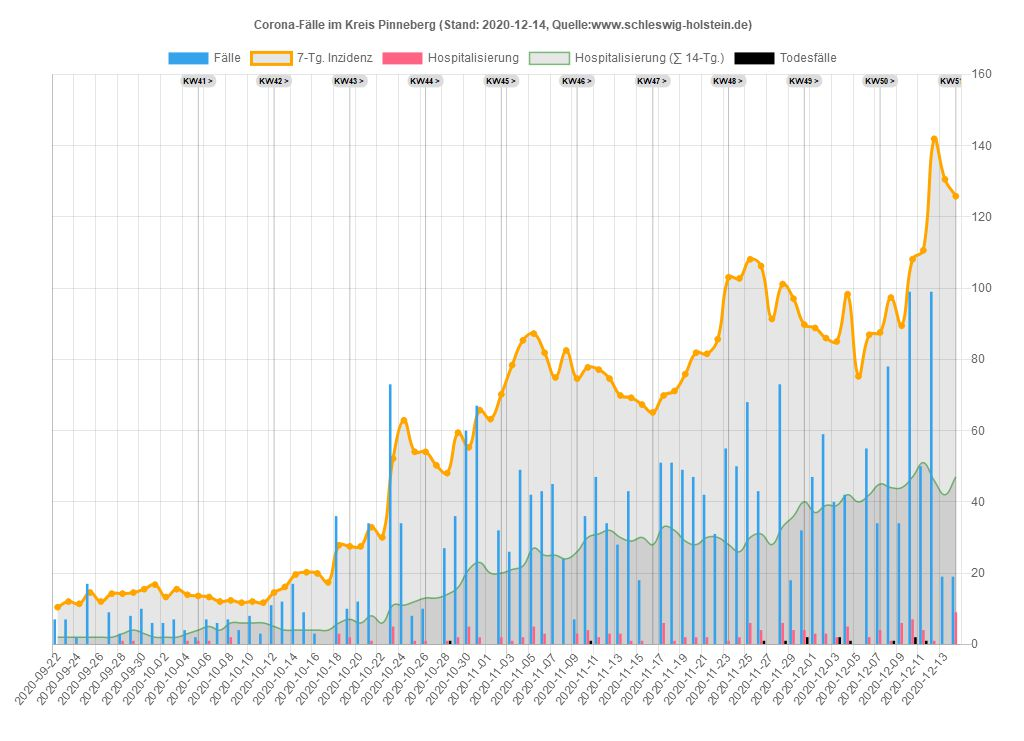
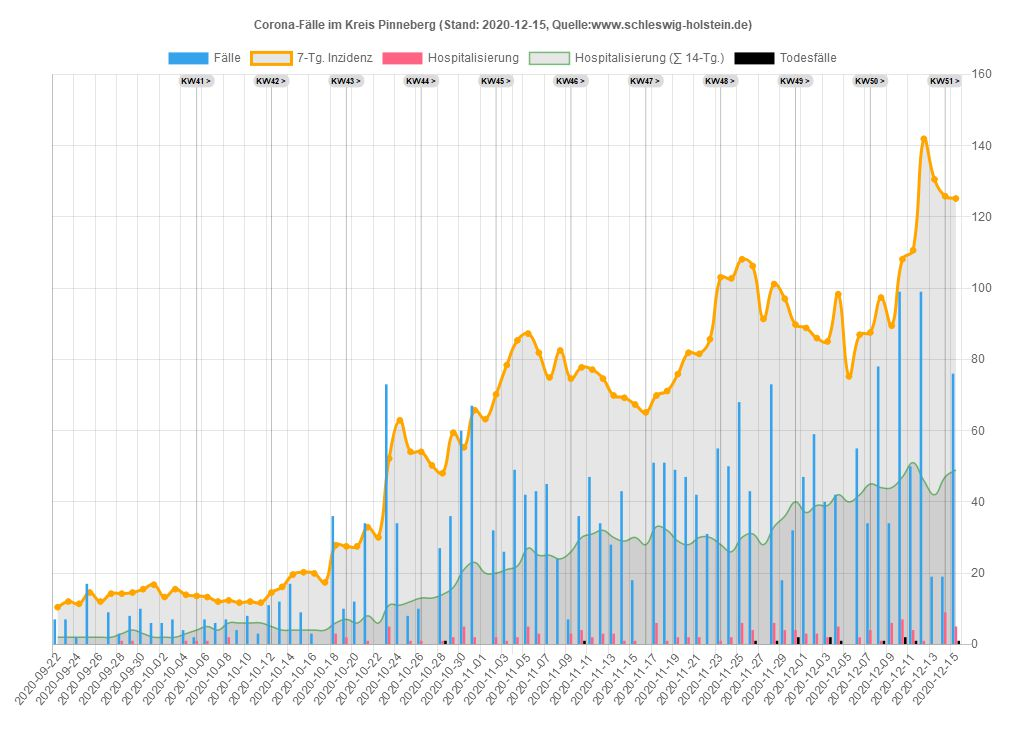
15.12.2020 21:47:12,88

diff --git a/sh/Data_SH.js b/sh/Data_SH.js
@@ -1,33 +1,33 @@
 var chdata={
-labels: ["2020-09-22","2020-09-23","2020-09-24","2020-09-25","2020-09-26","2020-09-27","2020-09-28","2020-09-29","2020-09-30","2020-10-01","2020-10-02","2020-10-03","2020-10-04","2020-10-05","2020-10-06","2020-10-07","2020-10-08","2020-10-09","2020-10-10","2020-10-11","2020-10-12","2020-10-13","2020-10-14","2020-10-15","2020-10-16","2020-10-17","2020-10-18","2020-10-19","2020-10-20","2020-10-21","2020-10-22","2020-10-23","2020-10-24","2020-10-25","2020-10-26","2020-10-27","2020-10-28","2020-10-29","2020-10-30","2020-10-31","2020-11-01","2020-11-02","2020-11-03","2020-11-04","2020-11-05","2020-11-06","2020-11-07","2020-11-08","2020-11-09","2020-11-10","2020-11-11","2020-11-12","2020-11-13","2020-11-14","2020-11-15","2020-11-16","2020-11-17","2020-11-18","2020-11-19","2020-11-20","2020-11-21","2020-11-22","2020-11-23","2020-11-24","2020-11-25","2020-11-26","2020-11-27","2020-11-28","2020-11-29","2020-11-30","2020-12-01","2020-12-02","2020-12-03","2020-12-04","2020-12-05","2020-12-06","2020-12-07","2020-12-08","2020-12-09","2020-12-10","2020-12-11","2020-12-12","2020-12-13","2020-12-14"],
+labels: ["2020-09-22","2020-09-23","2020-09-24","2020-09-25","2020-09-26","2020-09-27","2020-09-28","2020-09-29","2020-09-30","2020-10-01","2020-10-02","2020-10-03","2020-10-04","2020-10-05","2020-10-06","2020-10-07","2020-10-08","2020-10-09","2020-10-10","2020-10-11","2020-10-12","2020-10-13","2020-10-14","2020-10-15","2020-10-16","2020-10-17","2020-10-18","2020-10-19","2020-10-20","2020-10-21","2020-10-22","2020-10-23","2020-10-24","2020-10-25","2020-10-26","2020-10-27","2020-10-28","2020-10-29","2020-10-30","2020-10-31","2020-11-01","2020-11-02","2020-11-03","2020-11-04","2020-11-05","2020-11-06","2020-11-07","2020-11-08","2020-11-09","2020-11-10","2020-11-11","2020-11-12","2020-11-13","2020-11-14","2020-11-15","2020-11-16","2020-11-17","2020-11-18","2020-11-19","2020-11-20","2020-11-21","2020-11-22","2020-11-23","2020-11-24","2020-11-25","2020-11-26","2020-11-27","2020-11-28","2020-11-29","2020-11-30","2020-12-01","2020-12-02","2020-12-03","2020-12-04","2020-12-05","2020-12-06","2020-12-07","2020-12-08","2020-12-09","2020-12-10","2020-12-11","2020-12-12","2020-12-13","2020-12-14","2020-12-15"],
 datasets: [
 {label: 'Fälle',
 type: 'bar',
 backgroundColor: window.chartColors.blue,
-data: [38,42,63,53,15,15,38,48,49,27,50,16,24,39,54,45,79,54,26,25,65,65,65,55,90,26,88,163,111,160,136,236,142,115,164,164,280,215,313,265,161,142,236,262,220,274,233,177,215,252,247,192,296,158,161,100,294,208,264,250,153,121,145,251,256,225,180,219,71,81,244,240,245,318,234,154,183,314,297,529,384,472,140,241]},
+data: [38,42,63,53,15,15,38,48,49,27,50,16,24,39,54,45,79,54,26,25,65,65,65,55,90,26,88,163,111,160,136,236,142,115,164,164,280,215,313,265,161,142,236,262,220,274,233,177,215,252,247,192,296,158,161,100,294,208,264,250,153,121,145,251,256,225,180,219,71,81,244,240,245,318,234,154,183,314,297,529,384,472,140,241,486]},
 {label: '7-Tg. Inzidenz',
 type: 'line',
 pointBackgroundColor: 'orange',
 borderColor: 'orange',
-data: [7.23197027,7.88629139,8.74724023,9.40156135,9.33268544,9.16049567,9.09161977,9.4359993,9.67706498,8.43729865,8.33398478,8.36842274,8.67836432,8.71280227,8.91943,8.78167818,10.5724518,10.7102036,11.0545831,11.0890211,11.9844079,12.3632254,13.0519844,12.2254735,13.4652399,13.4652399,15.634831,19.0097504,20.5938963,23.8655019,26.6549761,31.6829174,35.67772,36.6075447,36.6419827,38.4671942,42.5997487,45.320347,47.9720694,52.2079377,53.7920836,53.0344486,55.5139813,54.8940981,55.0662879,53.7232077,52.6211932,53.1722004,55.6861711,56.2371783,55.720609,54.7563463,55.5139813,52.9311348,52.3801275,48.4197628,49.8661569,48.5230767,51.0026094,49.4184635,49.2462737,47.8687556,49.4184635,47.9376315,49.5906533,48.2475731,45.8369163,48.1098213,46.3879236,44.1838945,43.9428289,43.3918216,44.0805807,48.8330183,49.3495876,52.2079377,55.720609,58.1312658,60.0942291,69.874608,72.1475129,80.3437459,79.8616145,81.8590158]},
+data: [7.23197027,7.88629139,8.74724023,9.40156135,9.33268544,9.16049567,9.09161977,9.4359993,9.67706498,8.43729865,8.33398478,8.36842274,8.67836432,8.71280227,8.91943,8.78167818,10.5724518,10.7102036,11.0545831,11.0890211,11.9844079,12.3632254,13.0519844,12.2254735,13.4652399,13.4652399,15.634831,19.0097504,20.5938963,23.8655019,26.6549761,31.6829174,35.67772,36.6075447,36.6419827,38.4671942,42.5997487,45.320347,47.9720694,52.2079377,53.7920836,53.0344486,55.5139813,54.8940981,55.0662879,53.7232077,52.6211932,53.1722004,55.6861711,56.2371783,55.720609,54.7563463,55.5139813,52.9311348,52.3801275,48.4197628,49.8661569,48.5230767,51.0026094,49.4184635,49.2462737,47.8687556,49.4184635,47.9376315,49.5906533,48.2475731,45.8369163,48.1098213,46.3879236,44.1838945,43.9428289,43.3918216,44.0805807,48.8330183,49.3495876,52.2079377,55.720609,58.1312658,60.0942291,69.874608,72.1475129,80.3437459,79.8616145,81.8590158,87.7823439]},
 {label: 'Hospitalisierung',
 type: 'bar',
 backgroundColor: window.chartColors.red,
-data: [1,2,7,1,0,0,2,1,3,1,1,0,4,3,1,1,4,2,0,3,5,1,1,2,4,0,9,10,8,9,12,7,5,6,7,7,11,10,11,6,3,9,19,20,15,15,5,7,13,15,21,13,17,8,17,13,23,10,15,9,7,7,13,16,26,19,12,14,15,10,12,8,10,14,3,5,24,13,26,20,14,12,6,26]},
+data: [1,2,7,1,0,0,2,1,3,1,1,0,4,3,1,1,4,2,0,3,5,1,1,2,4,0,9,10,8,9,12,7,5,6,7,7,11,10,11,6,3,9,19,20,15,15,5,7,13,15,21,13,17,8,17,13,23,10,15,9,7,7,13,16,26,19,12,14,15,10,12,8,10,14,3,5,24,13,26,20,14,12,6,26,27]},
 {label: 'Hosp. (∑ 14-Tg.)',
 type: 'line',
 borderColor: 'rgba(0,255,0,0.5)',
 borderWidth: 1.5,
 pointRadius: 0,
-data: [12,12,20,22,22,22,22,23,23,21,22,21,24,26,26,25,22,23,23,26,29,29,27,28,31,31,36,43,50,58,66,71,76,79,81,87,97,105,112,118,112,111,122,133,136,144,144,145,151,159,169,172,178,180,194,198,202,192,192,186,188,188,188,189,194,200,195,201,199,196,185,183,178,183,179,177,188,185,185,186,188,186,177,193]},
+data: [12,12,20,22,22,22,22,23,23,21,22,21,24,26,26,25,22,23,23,26,29,29,27,28,31,31,36,43,50,58,66,71,76,79,81,87,97,105,112,118,112,111,122,133,136,144,144,145,151,159,169,172,178,180,194,198,202,192,192,186,188,188,188,189,194,200,195,201,199,196,185,183,178,183,179,177,188,185,185,186,188,186,177,193,208]},
 {label: 'Aktuell im Krankenhaus',
 type: 'line',
 pointBackgroundColor: 'green',
 borderColor: 'green',
-data: [6,6,6,6,6,6,6,11,11,11,11,14,14,15,15,14,14,14,13,13,18,18,18,21,24,24,24,24,31,31,31,31,51,51,58,58,58,58,58,58,58,94,110,114,119,118,124,120,126,116,113,119,112,116,116,148,145,151,141,141,141,141,155,142,122,113,118,118,118,124,114,110,109,114,114,114,131,122,128,132,133,133,133,177]},
+data: [6,6,6,6,6,6,6,11,11,11,11,14,14,15,15,14,14,14,13,13,18,18,18,21,24,24,24,24,31,31,31,31,51,51,58,58,58,58,58,58,58,94,110,114,119,118,124,120,126,116,113,119,112,116,116,148,145,151,141,141,141,141,155,142,122,113,118,118,118,124,114,110,109,114,114,114,131,122,128,132,133,133,133,177,181]},
 {label: 'Todesfälle',
 type: 'bar',
 backgroundColor: 'black',
-data: [0,0,0,0,0,0,0,1,0,0,0,0,0,0,0,0,0,0,0,0,0,1,0,0,0,0,0,0,0,0,1,0,0,3,0,0,3,4,1,0,2,6,7,2,2,6,0,1,4,3,5,0,5,1,3,5,0,2,2,2,1,0,3,4,1,3,3,1,4,2,3,1,4,1,0,1,4,2,5,7,7,1,2,2]},
+data: [0,0,0,0,0,0,0,1,0,0,0,0,0,0,0,0,0,0,0,0,0,1,0,0,0,0,0,0,0,0,1,0,0,3,0,0,3,4,1,0,2,6,7,2,2,6,0,1,4,3,5,0,5,1,3,5,0,2,2,2,1,0,3,4,1,3,3,1,4,2,3,1,4,1,0,1,4,2,5,7,7,1,2,2,6]},
 ]};
 

diff --git a/sh/Data_SH_Alter.js b/sh/Data_SH_Alter.js
@@ -94,7 +94,8 @@ var chdata={
 				{x: '2020-12-11', y: 'Alle', v: 71.1488123, casesum: 2066},{x: '2020-12-11', y: '00-09', v: 40.510747, casesum: 104},{x: '2020-12-11', y: '10-19', v: 86.5920067, casesum: 239},{x: '2020-12-11', y: '20-29', v: 94.0736712, casesum: 301},{x: '2020-12-11', y: '30-39', v: 86.5842083, casesum: 291},{x: '2020-12-11', y: '40-49', v: 76.0341927, casesum: 268},{x: '2020-12-11', y: '50-59', v: 70.2461238, casesum: 348},{x: '2020-12-11', y: '60-69', v: 44.8381151, casesum: 163},{x: '2020-12-11', y: '70-79', v: 35.8191605, casesum: 106},{x: '2020-12-11', y: '80-89', v: 90.582749, casesum: 162},{x: '2020-12-11', y: '90+', v: 291.50472, casesum: 84},
 				{x: '2020-12-12', y: 'Alle', v: 79.9304904, casesum: 2321},{x: '2020-12-12', y: '00-09', v: 48.6908017, casesum: 125},{x: '2020-12-12', y: '10-19', v: 103.258251, casesum: 285},{x: '2020-12-12', y: '20-29', v: 108.450378, casesum: 347},{x: '2020-12-12', y: '30-39', v: 95.8079556, casesum: 322},{x: '2020-12-12', y: '40-49', v: 87.949999, casesum: 310},{x: '2020-12-12', y: '50-59', v: 76.5036809, casesum: 379},{x: '2020-12-12', y: '60-69', v: 47.5889198, casesum: 173},{x: '2020-12-12', y: '70-79', v: 37.8466602, casesum: 112},{x: '2020-12-12', y: '80-89', v: 100.088346, casesum: 179},{x: '2020-12-12', y: '90+', v: 308.856191, casesum: 89},
 				{x: '2020-12-13', y: 'Alle', v: 79.5861109, casesum: 2311},{x: '2020-12-13', y: '00-09', v: 47.5222225, casesum: 122},{x: '2020-12-13', y: '10-19', v: 99.6351542, casesum: 275},{x: '2020-12-13', y: '20-29', v: 111.57575, casesum: 357},{x: '2020-12-13', y: '30-39', v: 96.1054959, casesum: 323},{x: '2020-12-13', y: '40-49', v: 89.6522571, casesum: 316},{x: '2020-12-13', y: '50-59', v: 76.3018242, casesum: 378},{x: '2020-12-13', y: '60-69', v: 45.3882761, casesum: 165},{x: '2020-12-13', y: '70-79', v: 37.8466602, casesum: 112},{x: '2020-12-13', y: '80-89', v: 97.2925823, casesum: 174},{x: '2020-12-13', y: '90+', v: 308.856191, casesum: 89},
-				{x: '2020-12-14', y: 'Alle', v: 81.5146363, casesum: 2367},{x: '2020-12-14', y: '00-09', v: 47.5222225, casesum: 122},{x: '2020-12-14', y: '10-19', v: 98.1859156, casesum: 271},{x: '2020-12-14', y: '20-29', v: 112.200824, casesum: 359},{x: '2020-12-14', y: '30-39', v: 103.544002, casesum: 348},{x: '2020-12-14', y: '40-49', v: 89.9359667, casesum: 317},{x: '2020-12-14', y: '50-59', v: 77.3111076, casesum: 383},{x: '2020-12-14', y: '60-69', v: 47.0387588, casesum: 171},{x: '2020-12-14', y: '70-79', v: 41.9016595, casesum: 124},{x: '2020-12-14', y: '80-89', v: 98.9700406, casesum: 177},{x: '2020-12-14', y: '90+', v: 329.677957, casesum: 95}
+				{x: '2020-12-14', y: 'Alle', v: 81.5146363, casesum: 2367},{x: '2020-12-14', y: '00-09', v: 47.5222225, casesum: 122},{x: '2020-12-14', y: '10-19', v: 98.1859156, casesum: 271},{x: '2020-12-14', y: '20-29', v: 112.200824, casesum: 359},{x: '2020-12-14', y: '30-39', v: 103.544002, casesum: 348},{x: '2020-12-14', y: '40-49', v: 89.9359667, casesum: 317},{x: '2020-12-14', y: '50-59', v: 77.3111076, casesum: 383},{x: '2020-12-14', y: '60-69', v: 47.0387588, casesum: 171},{x: '2020-12-14', y: '70-79', v: 41.9016595, casesum: 124},{x: '2020-12-14', y: '80-89', v: 98.9700406, casesum: 177},{x: '2020-12-14', y: '90+', v: 329.677957, casesum: 95},
+				{x: '2020-12-15', y: 'Alle', v: 87.5412782, casesum: 2542},{x: '2020-12-15', y: '00-09', v: 56.0918036, casesum: 144},{x: '2020-12-15', y: '10-19', v: 105.432109, casesum: 291},{x: '2020-12-15', y: '20-29', v: 119.701715, casesum: 383},{x: '2020-12-15', y: '30-39', v: 107.709565, casesum: 362},{x: '2020-12-15', y: '40-49', v: 99.8658053, casesum: 352},{x: '2020-12-15', y: '50-59', v: 83.5686646, casesum: 414},{x: '2020-12-15', y: '60-69', v: 51.9902071, casesum: 189},{x: '2020-12-15', y: '70-79', v: 41.2258263, casesum: 122},{x: '2020-12-15', y: '80-89', v: 100.088346, casesum: 179},{x: '2020-12-15', y: '90+', v: 367.851194, casesum: 106}
 			],
 			backgroundColor: function(context) {
 				return inzColor(context.dataset.data[context.dataIndex].v)
@@ -102,7 +103,7 @@ var chdata={
 			width: function(context) {
 				const a = context.chart.chartArea
 				if (!a) return 0
-				return (a.right - a.left) / 91.5
+				return (a.right - a.left) / 92.5
 			},
 			height: function(context) {
 				const a = context.chart.chartArea
@@ -114,7 +115,7 @@ var chdata={
 	options: {
 		legend: { display: false },
 		scales: {
-			xAxes: [{type: 'category', labels: ["2020-09-15","2020-09-16","2020-09-17","2020-09-18","2020-09-19","2020-09-20","2020-09-21","2020-09-22","2020-09-23","2020-09-24","2020-09-25","2020-09-26","2020-09-27","2020-09-28","2020-09-29","2020-09-30","2020-10-01","2020-10-02","2020-10-03","2020-10-04","2020-10-05","2020-10-06","2020-10-07","2020-10-08","2020-10-09","2020-10-10","2020-10-11","2020-10-12","2020-10-13","2020-10-14","2020-10-15","2020-10-16","2020-10-17","2020-10-18","2020-10-19","2020-10-20","2020-10-21","2020-10-22","2020-10-23","2020-10-24","2020-10-25","2020-10-26","2020-10-27","2020-10-28","2020-10-29","2020-10-30","2020-10-31","2020-11-01","2020-11-02","2020-11-03","2020-11-04","2020-11-05","2020-11-06","2020-11-07","2020-11-08","2020-11-09","2020-11-10","2020-11-11","2020-11-12","2020-11-13","2020-11-14","2020-11-15","2020-11-16","2020-11-17","2020-11-18","2020-11-19","2020-11-20","2020-11-21","2020-11-22","2020-11-23","2020-11-24","2020-11-25","2020-11-26","2020-11-27","2020-11-28","2020-11-29","2020-11-30","2020-12-01","2020-12-02","2020-12-03","2020-12-04","2020-12-05","2020-12-06","2020-12-07","2020-12-08","2020-12-09","2020-12-10","2020-12-11","2020-12-12","2020-12-13","2020-12-14",], ticks: {display: true},gridlines:{display:false}}],
+			xAxes: [{type: 'category', labels: ["2020-09-15","2020-09-16","2020-09-17","2020-09-18","2020-09-19","2020-09-20","2020-09-21","2020-09-22","2020-09-23","2020-09-24","2020-09-25","2020-09-26","2020-09-27","2020-09-28","2020-09-29","2020-09-30","2020-10-01","2020-10-02","2020-10-03","2020-10-04","2020-10-05","2020-10-06","2020-10-07","2020-10-08","2020-10-09","2020-10-10","2020-10-11","2020-10-12","2020-10-13","2020-10-14","2020-10-15","2020-10-16","2020-10-17","2020-10-18","2020-10-19","2020-10-20","2020-10-21","2020-10-22","2020-10-23","2020-10-24","2020-10-25","2020-10-26","2020-10-27","2020-10-28","2020-10-29","2020-10-30","2020-10-31","2020-11-01","2020-11-02","2020-11-03","2020-11-04","2020-11-05","2020-11-06","2020-11-07","2020-11-08","2020-11-09","2020-11-10","2020-11-11","2020-11-12","2020-11-13","2020-11-14","2020-11-15","2020-11-16","2020-11-17","2020-11-18","2020-11-19","2020-11-20","2020-11-21","2020-11-22","2020-11-23","2020-11-24","2020-11-25","2020-11-26","2020-11-27","2020-11-28","2020-11-29","2020-11-30","2020-12-01","2020-12-02","2020-12-03","2020-12-04","2020-12-05","2020-12-06","2020-12-07","2020-12-08","2020-12-09","2020-12-10","2020-12-11","2020-12-12","2020-12-13","2020-12-14","2020-12-15",], ticks: {display: true},gridlines:{display:false}}],
 			yAxes: [{type: 'category', labels: ["Alle","00-09","10-19","20-29","30-39","40-49","50-59","60-69","70-79","80-89","90+"], offset:true, ticks: {display: true},gridlines:{display:false}}],
 		},
 	}

diff --git a/sh/Kreis_PI.js b/sh/Kreis_PI.js
@@ -1,33 +1,33 @@
 var chdata={
-labels: ["2020-09-22","2020-09-23","2020-09-24","2020-09-25","2020-09-26","2020-09-27","2020-09-28","2020-09-29","2020-09-30","2020-10-01","2020-10-02","2020-10-03","2020-10-04","2020-10-05","2020-10-06","2020-10-07","2020-10-08","2020-10-09","2020-10-10","2020-10-11","2020-10-12","2020-10-13","2020-10-14","2020-10-15","2020-10-16","2020-10-17","2020-10-18","2020-10-19","2020-10-20","2020-10-21","2020-10-22","2020-10-23","2020-10-24","2020-10-25","2020-10-26","2020-10-27","2020-10-28","2020-10-29","2020-10-30","2020-10-31","2020-11-01","2020-11-02","2020-11-03","2020-11-04","2020-11-05","2020-11-06","2020-11-07","2020-11-08","2020-11-09","2020-11-10","2020-11-11","2020-11-12","2020-11-13","2020-11-14","2020-11-15","2020-11-16","2020-11-17","2020-11-18","2020-11-19","2020-11-20","2020-11-21","2020-11-22","2020-11-23","2020-11-24","2020-11-25","2020-11-26","2020-11-27","2020-11-28","2020-11-29","2020-11-30","2020-12-01","2020-12-02","2020-12-03","2020-12-04","2020-12-05","2020-12-06","2020-12-07","2020-12-08","2020-12-09","2020-12-10","2020-12-11","2020-12-12","2020-12-13","2020-12-14"],
+labels: ["2020-09-22","2020-09-23","2020-09-24","2020-09-25","2020-09-26","2020-09-27","2020-09-28","2020-09-29","2020-09-30","2020-10-01","2020-10-02","2020-10-03","2020-10-04","2020-10-05","2020-10-06","2020-10-07","2020-10-08","2020-10-09","2020-10-10","2020-10-11","2020-10-12","2020-10-13","2020-10-14","2020-10-15","2020-10-16","2020-10-17","2020-10-18","2020-10-19","2020-10-20","2020-10-21","2020-10-22","2020-10-23","2020-10-24","2020-10-25","2020-10-26","2020-10-27","2020-10-28","2020-10-29","2020-10-30","2020-10-31","2020-11-01","2020-11-02","2020-11-03","2020-11-04","2020-11-05","2020-11-06","2020-11-07","2020-11-08","2020-11-09","2020-11-10","2020-11-11","2020-11-12","2020-11-13","2020-11-14","2020-11-15","2020-11-16","2020-11-17","2020-11-18","2020-11-19","2020-11-20","2020-11-21","2020-11-22","2020-11-23","2020-11-24","2020-11-25","2020-11-26","2020-11-27","2020-11-28","2020-11-29","2020-11-30","2020-12-01","2020-12-02","2020-12-03","2020-12-04","2020-12-05","2020-12-06","2020-12-07","2020-12-08","2020-12-09","2020-12-10","2020-12-11","2020-12-12","2020-12-13","2020-12-14","2020-12-15"],
 datasets: [
 {label: 'Fälle',
 type: 'bar',
 backgroundColor: window.chartColors.blue,
 yAxisID: 'first-y-axis',
-data: [7,7,2,17,0,9,3,8,10,6,6,7,4,2,7,6,7,4,8,3,11,12,17,9,3,0,36,10,12,34,0,73,34,8,10,0,27,36,60,67,0,32,26,49,42,43,45,24,7,36,47,34,28,43,18,0,51,51,49,47,42,31,55,50,68,43,0,73,18,32,47,59,40,42,0,55,34,78,34,99,50,99,19,19]},
+data: [7,7,2,17,0,9,3,8,10,6,6,7,4,2,7,6,7,4,8,3,11,12,17,9,3,0,36,10,12,34,0,73,34,8,10,0,27,36,60,67,0,32,26,49,42,43,45,24,7,36,47,34,28,43,18,0,51,51,49,47,42,31,55,50,68,43,0,73,18,32,47,59,40,42,0,55,34,78,34,99,50,99,19,19,76]},
 {label: '7-Tg. Inzidenz',
 type: 'line',
 pointBackgroundColor: 'orange',
 borderColor: 'orange',
 yAxisID: 'first-y-axis',
-data: [10.4300994,12.0104175,11.3782902,14.5389264,12.0104175,14.2228628,14.2228628,14.5389264,15.4871172,16.7513717,13.2746719,15.4871172,13.9067992,13.5907355,13.2746719,12.0104175,12.3264811,11.6943538,12.0104175,11.6943538,14.5389264,16.1192445,19.5959443,20.2280715,19.9120079,17.383499,27.8135983,27.4975347,27.4975347,32.8706162,30.0260436,52.1504969,62.8966598,54.0468786,54.0468786,50.2541151,48.0416698,59.41996,55.311133,65.7412324,63.2127235,70.166123,78.3837771,85.3371767,87.2335584,81.8604769,74.9070773,82.4926041,74.5910137,77.7516499,77.1195226,74.5910137,69.8500594,69.2179322,67.3215505,65.1091052,69.8500594,71.1143139,75.8552681,81.8604769,81.5444133,85.6532403,103.036739,102.720676,108.093757,106.197375,91.3423854,101.140358,97.0315305,89.7620673,88.8138765,85.9693039,85.021113,98.295785,75.2231409,86.9174948,87.549622,97.3475941,89.4460037,108.093757,110.622266,141.912564,130.534274,125.79332]},
+data: [10.4300994,12.0104175,11.3782902,14.5389264,12.0104175,14.2228628,14.2228628,14.5389264,15.4871172,16.7513717,13.2746719,15.4871172,13.9067992,13.5907355,13.2746719,12.0104175,12.3264811,11.6943538,12.0104175,11.6943538,14.5389264,16.1192445,19.5959443,20.2280715,19.9120079,17.383499,27.8135983,27.4975347,27.4975347,32.8706162,30.0260436,52.1504969,62.8966598,54.0468786,54.0468786,50.2541151,48.0416698,59.41996,55.311133,65.7412324,63.2127235,70.166123,78.3837771,85.3371767,87.2335584,81.8604769,74.9070773,82.4926041,74.5910137,77.7516499,77.1195226,74.5910137,69.8500594,69.2179322,67.3215505,65.1091052,69.8500594,71.1143139,75.8552681,81.8604769,81.5444133,85.6532403,103.036739,102.720676,108.093757,106.197375,91.3423854,101.140358,97.0315305,89.7620673,88.8138765,85.9693039,85.021113,98.295785,75.2231409,86.9174948,87.549622,97.3475941,89.4460037,108.093757,110.622266,141.912564,130.534274,125.79332,125.161192]},
 {label: 'Hospitalisierung',
 type: 'bar',
 backgroundColor: window.chartColors.red,
 yAxisID: 'first-y-axis',
-data: [0,0,0,0,0,0,1,1,0,0,0,0,1,1,1,-1,2,0,0,0,0,0,0,0,0,0,3,2,0,1,0,5,0,1,1,0,1,2,5,2,0,2,1,2,5,3,0,0,3,4,2,3,3,1,1,0,6,1,2,2,2,0,1,2,6,4,0,6,4,4,3,3,2,5,0,2,4,1,6,7,4,1,0,9]},
+data: [0,0,0,0,0,0,1,1,0,0,0,0,1,1,1,-1,2,0,0,0,0,0,0,0,0,0,3,2,0,1,0,5,0,1,1,0,1,2,5,2,0,2,1,2,5,3,0,0,3,4,2,3,3,1,1,0,6,1,2,2,2,0,1,2,6,4,0,6,4,4,3,3,2,5,0,2,4,1,6,7,4,1,0,9,5]},
 {label: 'Hospitalisierung (∑ 14-Tg.)',
 type: 'line',
 pointRadius: 0,
 borderColor: 'rgba(0,128,0,0.5)',
 borderWidth: 1.5,
 yAxisID: 'first-y-axis',
-data: [2,2,2,2,2,2,3,4,3,2,2,2,3,4,5,4,6,6,6,6,5,4,4,4,4,4,6,7,6,8,6,11,11,12,13,13,14,16,21,23,20,20,21,22,27,25,25,24,26,30,31,32,30,29,30,28,33,32,29,28,30,30,28,26,30,31,28,33,36,40,37,39,39,42,40,42,45,44,44,47,51,46,42,47]},
+data: [2,2,2,2,2,2,3,4,3,2,2,2,3,4,5,4,6,6,6,6,5,4,4,4,4,4,6,7,6,8,6,11,11,12,13,13,14,16,21,23,20,20,21,22,27,25,25,24,26,30,31,32,30,29,30,28,33,32,29,28,30,30,28,26,30,31,28,33,36,40,37,39,39,42,40,42,45,44,44,47,51,46,42,47,49]},
 {label: 'Todesfälle',
 type: 'bar',
 backgroundColor: 'black',
 yAxisID: 'first-y-axis',
-data: [0,0,0,0,0,0,0,0,0,0,0,0,0,0,0,0,0,0,0,0,0,0,0,0,0,0,0,0,0,0,0,0,0,0,0,0,1,0,0,0,0,0,0,0,0,0,0,0,0,1,0,0,0,0,0,0,0,0,0,0,0,0,0,0,0,1,0,1,0,2,0,0,2,1,0,0,0,1,0,2,1,0,0,0]},
+data: [0,0,0,0,0,0,0,0,0,0,0,0,0,0,0,0,0,0,0,0,0,0,0,0,0,0,0,0,0,0,0,0,0,0,0,0,1,0,0,0,0,0,0,0,0,0,0,0,0,1,0,0,0,0,0,0,0,0,0,0,0,0,0,0,0,1,0,1,0,2,0,0,2,1,0,0,0,1,0,2,1,0,0,0,1]},
 ]};
 

diff --git a/sh/index_sh_alter.html b/sh/index_sh_alter.html
@@ -5,7 +5,7 @@
 <meta property="og:image" content="index_sh_alter.jpg" />
 <meta property="og:type" content="website" />
 <meta property="og:locale" content="de_DE" />
-<meta property="og:updated_time" content="2020-12-15T21:24:14+01:00" />
+<meta property="og:updated_time" content="2020-12-15T21:47:12+01:00" />
 <title>Altersverteilung der Corona-Fälle in Schleswig-Holstein</title>
 <link rel="stylesheet" href="../css/style.css" media="screen" type="text/css">
 <link rel="stylesheet" media="screen" href="Chart.min.css"> 

diff --git a/sh/index_pi_alter.html b/sh/index_pi_alter.html
@@ -5,7 +5,7 @@
 <meta property="og:image" content="index_pi_alter.jpg" />
 <meta property="og:type" content="website" />
 <meta property="og:locale" content="de_DE" />
-<meta property="og:updated_time" content="2020-12-15T21:24:14+01:00" />
+<meta property="og:updated_time" content="2020-12-15T21:47:12+01:00" />
 <title>Altersverteilung der Corona-Fälle im Kreis Pinneberg</title>
 <link rel="stylesheet" href="../css/style.css" media="screen" type="text/css">
 <link rel="stylesheet" media="screen" href="Chart.min.css"> 

diff --git a/sh/index.html b/sh/index.html
@@ -5,7 +5,7 @@
 <meta property="og:image" content="index.jpg" />
 <meta property="og:type" content="website" />
 <meta property="og:locale" content="de_DE" />
-<meta property="og:updated_time" content="2020-12-15T21:24:14+01:00" />
+<meta property="og:updated_time" content="2020-12-15T21:47:12+01:00" />
 <title>Corona-Fälle im Kreis Pinneberg</title>
 <link rel="stylesheet" href="../css/style.css" media="screen" type="text/css">
 <link rel="stylesheet" media="screen" href="Chart.min.css"> 
